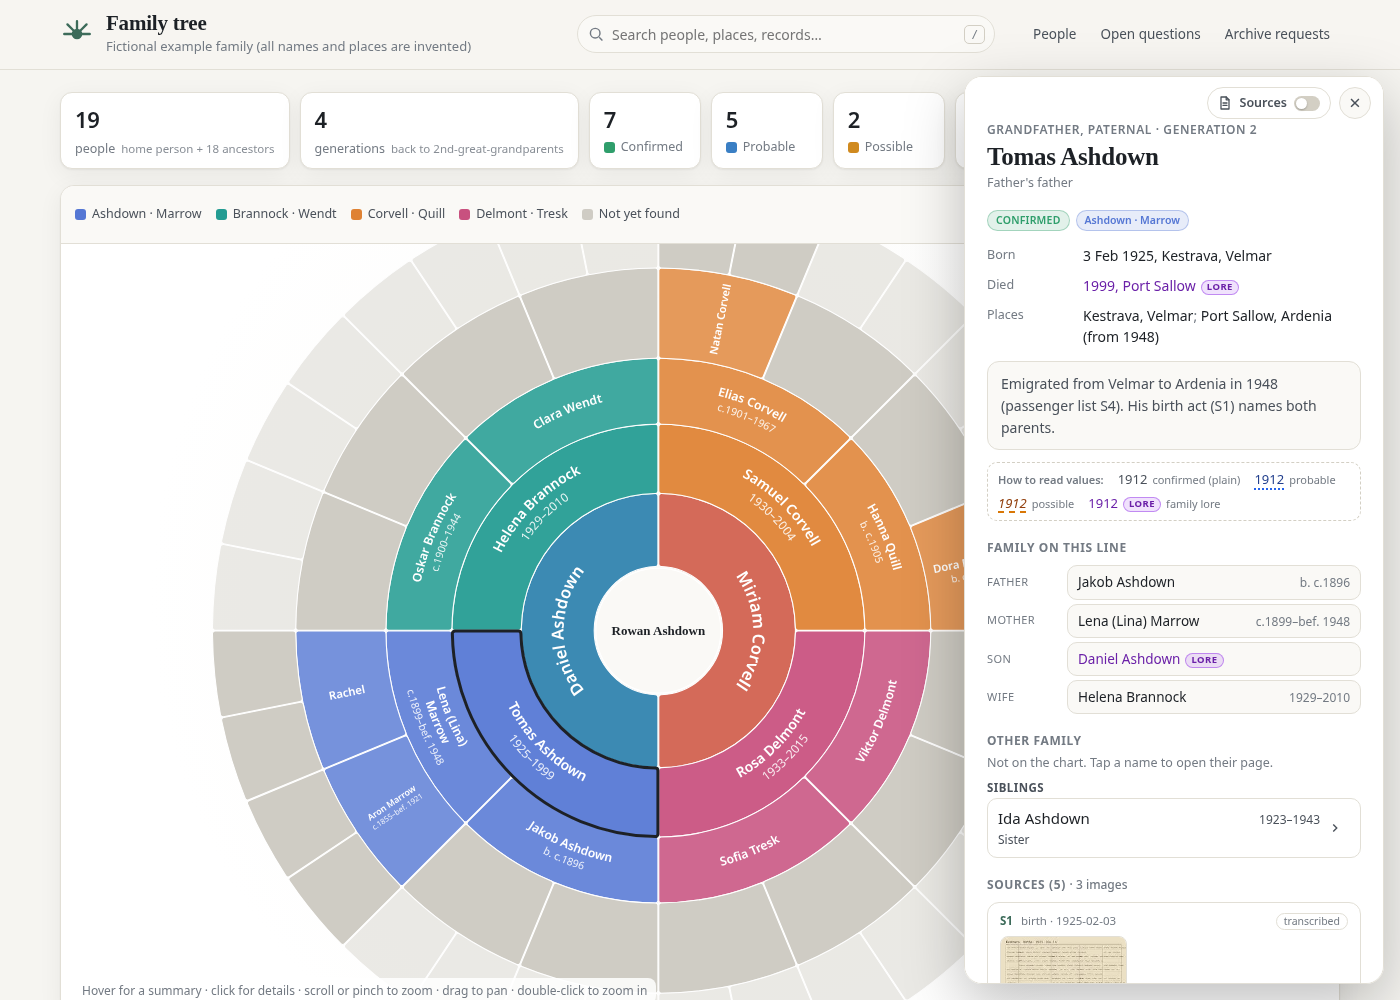
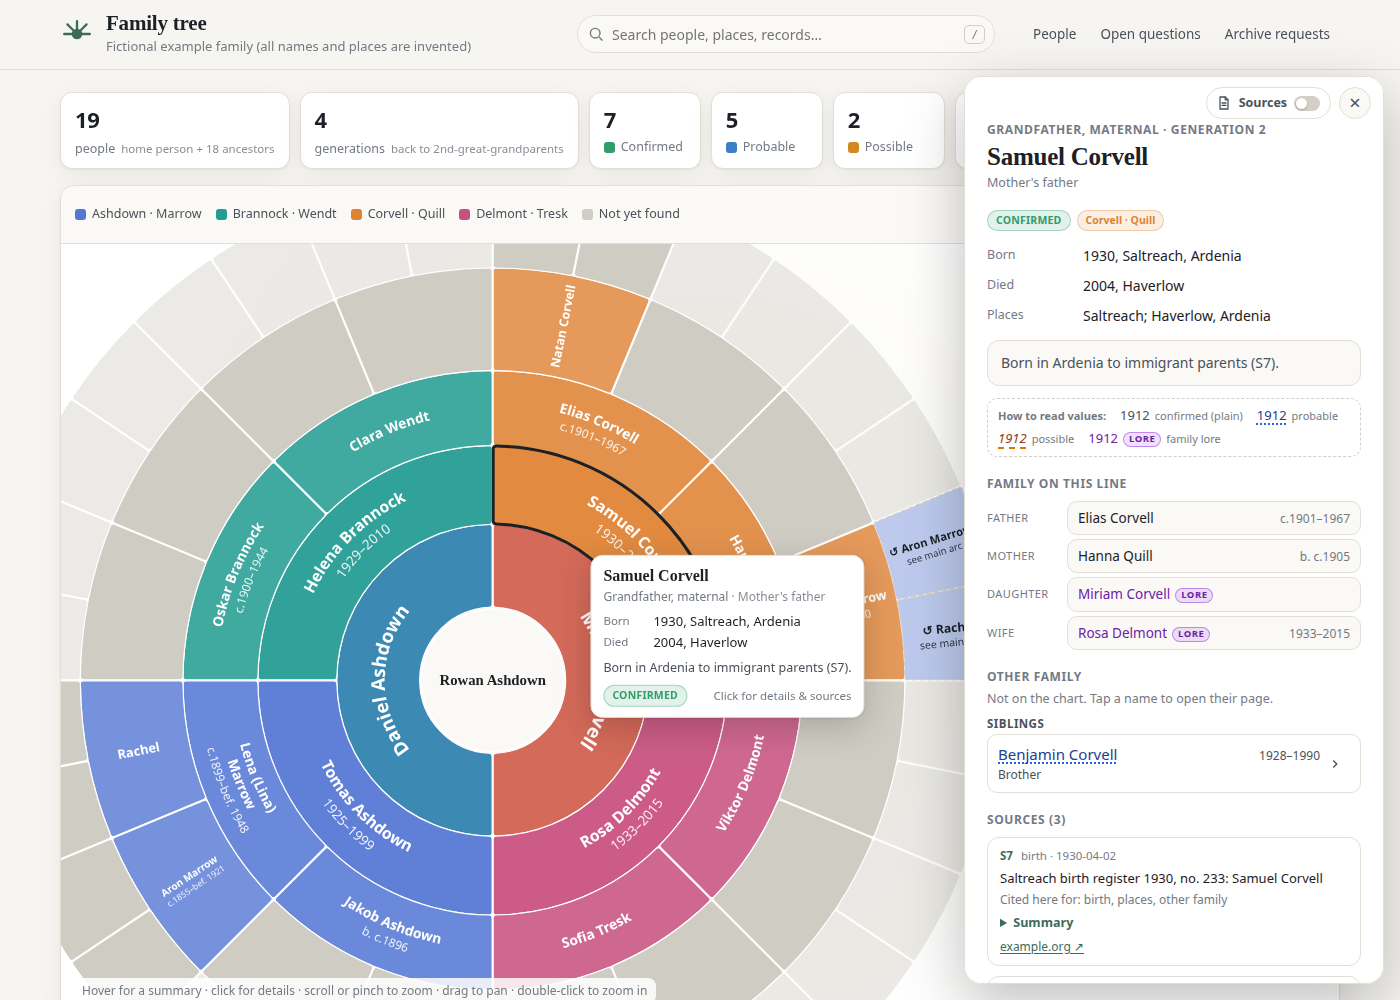
README screenshots and license detection (#3)
* Show the person panel and hover tip together in the README.

The desktop panel shot is the fictional maternal grandfather, with his panel and fan tip open at once. Mobile shots sit under one heading, and the separate tip image is removed.

* Make LICENSE standard MIT so GitHub detects it.

Copyright holder is the GitHub handle meirmsn. Third-party and docs-licence notes move to NOTICE, with the same meaning.

* Add a desktop evidence screenshot and drop the LICENSE holder.

The README desktop section shows the fictional birth record open beside why it matters. LICENSE copyright is exactly "Copyright (c) 2026".

* Drop the extra phone overview and lay screenshots out without tables.

The mobile row keeps the fan chart, person panel, and evidence viewer. HTML images sit side by side so GitHub does not draw table borders.

* Add a little space between the mobile screenshots.

Each phone image is 30% wide, with a few non-breaking spaces between them, still on one centered row.

---------

diff --git a/tools/screenshot_interactive.py b/tools/screenshot_interactive.py
@@ -3,13 +3,16 @@
 
     python3 tools/screenshot_interactive.py build/example-site docs/
     python3 tools/screenshot_interactive.py build/example-site docs/ --tip-only
+    python3 tools/screenshot_interactive.py build/example-site docs/ --evidence-only
 
-Writes screenshot-phone-fan.png, screenshot-phone-panel.png, screenshot-phone-evidence.png and
-screenshot-desktop-tip.png (unless --tip-only, which only rewrites the desktop tip). The visible text
-of each shot is printed so it can be checked for real names. Refuses unless DATA.example is true.
+Writes screenshot-phone-fan.png, screenshot-phone-panel.png, screenshot-phone-evidence.png,
+screenshot-panel.png and screenshot-desktop-evidence.png. --tip-only rewrites only the desktop
+panel shot; --evidence-only rewrites only the desktop record viewer. The visible text of each
+shot is printed so it can be checked for real names. Refuses unless DATA.example is true.
 
-Desktop tip targets an off-centre generation-2 grandparent (prefer maternal, then paternal
-grandfather), hovering toward the bottom-right of that segment — never the centre home person.
+The desktop panel shot opens the person panel and the fan-chart hover tip for the same off-centre
+generation-2 grandparent (prefer maternal, then paternal) — never the centre home person.
+The desktop evidence shot opens a record image with its "Why this record matters" text.
 """
 import functools, http.server, json, os, re, sys, threading
 from playwright.sync_api import sync_playwright
@@ -40,24 +43,145 @@ def _pick_grandpa(page):
     return chosen
 
 
-def _hover_bottom_right(page, seg):
-    """Move the pointer into the lower-right third of the segment's bbox (off-centre)."""
+def _person_from_seg(seg):
+    info = seg.evaluate("""el => {
+        const p = el.__data__ && el.__data__.data && el.__data__.data.person;
+        return p ? {id: p.id, name: p.name} : null;
+    }""")
+    if not info or not info.get("id") or not info.get("name"):
+        raise SystemExit("fan segment has no person id")
+    return info
+
+
+def _open_panel(page, pid, name):
+    page.evaluate("(id) => { location.hash = 'person=' + id; }", pid)
+    page.wait_for_selector("#panel.open", timeout=5000)
+    page.wait_for_function(
+        """(name) => {
+            const n = document.querySelector('#panel-name');
+            return !!(n && n.textContent.trim() === name);
+        }""",
+        arg=name, timeout=5000)
+    # The panel slides in (~280ms) and the chart may pan the arc out from under it (~500ms).
+    page.wait_for_timeout(700)
+
+
+def _pan_chart_left(page):
+    """Drag the fan left so the hover tip can sit on the chart, beside the open panel."""
+    box = page.locator("#fan").bounding_box()
+    if not box:
+        return
+    x = box["x"] + min(140, box["width"] * 0.18)
+    y = box["y"] + box["height"] * 0.55
+    page.mouse.move(x, y)
+    page.mouse.down()
+    page.mouse.move(x - 160, y, steps=10)
+    page.mouse.up()
+    page.wait_for_timeout(400)
+
+
+def _hover_same_person(page, label, name):
+    """Leave the pointer on that person's arc so the tip stays up while the panel is open.
+
+    A click would hide the tip, so this only moves the pointer. The segment's bounding box
+    includes empty corners; try several points and keep the one whose tip overlaps the panel least.
+    """
+    seg = page.locator(f"path.fan-seg[aria-label={json.dumps(label)}]")
+    if seg.count() != 1:
+        raise SystemExit(f"expected one fan segment for {label!r}, found {seg.count()}")
     box = seg.bounding_box()
     if not box or box["width"] < 2 or box["height"] < 2:
         raise SystemExit("grandparent segment has no usable bounding box")
-    x = box["x"] + box["width"] * 0.72
-    y = box["y"] + box["height"] * 0.72
-    page.mouse.move(x, y)
+    best = None
+    for fx, fy in ((0.35, 0.4), (0.42, 0.55), (0.5, 0.35), (0.5, 0.62),
+                   (0.28, 0.5), (0.62, 0.45), (0.72, 0.72), (0.4, 0.72)):
+        x = box["x"] + box["width"] * fx
+        y = box["y"] + box["height"] * fy
+        page.mouse.move(x, y)
+        page.wait_for_timeout(50)
+        hit = page.evaluate(
+            """({x, y, label, name}) => {
+                const el = document.elementFromPoint(x, y);
+                const seg = el && el.closest && el.closest('.fan-seg');
+                const tip = document.querySelector('#tip');
+                const panel = document.querySelector('#panel');
+                const tipName = tip && !tip.hidden && tip.querySelector('.tt-name')
+                    ? tip.querySelector('.tt-name').textContent.trim() : '';
+                let overlap = 1e9;
+                if (tip && !tip.hidden && panel) {
+                    const a = tip.getBoundingClientRect(), b = panel.getBoundingClientRect();
+                    const w = Math.max(0, Math.min(a.right, b.right) - Math.max(a.left, b.left));
+                    const h = Math.max(0, Math.min(a.bottom, b.bottom) - Math.max(a.top, b.top));
+                    overlap = w * h;
+                }
+                return {
+                    onSegment: !!(seg && (seg.getAttribute('aria-label') || '') === label),
+                    tipName, overlap,
+                };
+            }""",
+            {"x": x, "y": y, "label": label, "name": name})
+        if hit.get("onSegment") and hit.get("tipName") == name:
+            cand = (hit["overlap"], x, y)
+            if best is None or cand[0] < best[0]:
+                best = cand
+            if cand[0] <= 0:
+                break
+    if not best:
+        raise SystemExit(f"could not show the hover tip for {name!r} while that person's panel is open")
+    page.mouse.move(best[1], best[2])
+    page.wait_for_timeout(80)
+    print(f"=== hover at ({best[1]:.0f},{best[2]:.0f}) tip overlap {best[0]:.0f}px²")
+
+
+def _shot_panel_with_tip(page, shot):
+    page.goto(page.url.split("#")[0])
+    page.wait_for_selector("path.fan-seg")
+    page.wait_for_timeout(500)
+    seg, label = _pick_grandpa(page)
+    info = _person_from_seg(seg)
+    if not label.startswith(info["name"] + ","):
+        raise SystemExit(f"segment label {label!r} does not match {info['name']!r}")
+    print("=== panel + tip for:", label, info["id"])
+    _open_panel(page, info["id"], info["name"])
+    _pan_chart_left(page)
+    _hover_same_person(page, label, info["name"])
+    page.wait_for_selector("#tip:not([hidden])", timeout=5000)
+    panel = page.locator("#panel-name").inner_text().strip()
+    tip = page.locator("#tip .tt-name").inner_text().strip()
+    if panel != info["name"] or tip != info["name"]:
+        raise SystemExit(f"panel {panel!r} and tip {tip!r} are not both {info['name']!r}")
+    shot(page, "screenshot-panel.png")
+
+
+def _shot_desktop_evidence(page, base, shot):
+    """Record image open beside its 'Why this record matters' text (fictional example only)."""
+    page.goto(base + "#person=p4")
+    page.wait_for_selector("#panel.open .thumb", timeout=8000)
+    page.locator("#panel .thumb").first.click()
+    page.wait_for_selector("#lightbox:not([hidden]) .lb-why", timeout=8000)
+    page.wait_for_function(
+        """() => {
+            const img = document.querySelector('#lightbox .lb-img');
+            const why = document.querySelector('#lightbox .lb-why');
+            const src = (img && (img.currentSrc || img.src)) || '';
+            return !!(img && img.complete && img.naturalWidth > 200 && !src.includes('/t/')
+                      && why && /why this record matters/i.test(why.innerText));
+        }""",
+        timeout=8000)
+    title = page.locator("#lightbox .lb-title").inner_text().strip()
+    why = page.locator("#lightbox .lb-why").inner_text().strip().splitlines()[0:3]
+    print("=== evidence:", title)
+    print("=== why:", " ".join(why))
+    shot(page, "screenshot-desktop-evidence.png")
 
 
 def main():
     argv = sys.argv[1:]
-    tip_only = False
-    if "--tip-only" in argv:
-        tip_only = True
-        argv = [a for a in argv if a != "--tip-only"]
+    tip_only = "--tip-only" in argv
+    evidence_only = "--evidence-only" in argv
+    argv = [a for a in argv if a not in ("--tip-only", "--evidence-only")]
     if len(argv) < 2:
-        raise SystemExit("usage: screenshot_interactive.py SITE_DIR OUT_DIR [--tip-only]")
+        raise SystemExit("usage: screenshot_interactive.py SITE_DIR OUT_DIR [--tip-only|--evidence-only]")
     site, out = os.path.abspath(argv[0]), argv[1]
     data = json.load(open(os.path.join(site, "data", "family.json"), encoding="utf-8"))
     if not data.get("example"):
@@ -74,7 +198,7 @@ def main():
             page.wait_for_timeout(900)
             page.screenshot(path=os.path.join(out, name))
             print("=== wrote", name); print(page.evaluate("document.body.innerText"))
-        if not tip_only:
+        if not tip_only and not evidence_only:
             phone = dict(viewport={"width": 390, "height": 844}, device_scale_factor=2, is_mobile=True, has_touch=True)
             p = b.new_page(**phone); p.goto(base); p.wait_for_selector(".fan-seg"); shot(p, "screenshot-phone-fan.png")
             p.goto(base + "#person=p4"); p.wait_for_timeout(1200)
@@ -85,15 +209,15 @@ def main():
             w = p.locator("#lightbox .lb-why").first
             if w.count(): w.scroll_into_view_if_needed()
             shot(p, "screenshot-phone-evidence.png")
-        d = b.new_page(viewport={"width": 1400, "height": 1000}); d.goto(base); d.wait_for_selector(".fan-seg")
-        d.wait_for_timeout(500)
-        seg, label = _pick_grandpa(d)
-        print("=== hovering tip on:", label)
-        _hover_bottom_right(d, seg)
-        d.wait_for_selector("#tip:not([hidden])", timeout=5000)
-        tip_text = d.locator("#tip").inner_text()
-        print("=== tip text:\n", tip_text)
-        shot(d, "screenshot-desktop-tip.png")
+        d = b.new_page(viewport={"width": 1400, "height": 1000})
+        d.goto(base)
+        if evidence_only:
+            _shot_desktop_evidence(d, base, shot)
+        elif tip_only:
+            _shot_panel_with_tip(d, shot)
+        else:
+            _shot_panel_with_tip(d, shot)
+            _shot_desktop_evidence(d, base, shot)
         b.close()
     srv.shutdown()
 

diff --git a/tools/screenshot.py b/tools/screenshot.py
@@ -3,8 +3,10 @@
 
     python3 tools/screenshot.py SITE_DIR OUT_DIR [--require-example]
 
-OUT_DIR is a FOLDER: three files are written into it (screenshot-desktop.png, screenshot-phone.png,
-screenshot-panel.png). Example: python3 tools/screenshot.py build/example-site docs/ --require-example
+OUT_DIR is a FOLDER: screenshot-desktop.png is written into it. The narrow-screen shots
+(fan, person panel, record viewer) and the desktop panel and evidence shots are written by
+screenshot_interactive.py. Example:
+python3 tools/screenshot.py build/example-site docs/ --require-example
 
 The server is started in-process on a port chosen by the OS (never a fixed port: another agent may
 already be serving a different, private site on 8000/8765). Before shooting, it fetches
@@ -24,8 +26,7 @@ import sys
 import threading
 import urllib.request
 
-SHOTS = [("screenshot-desktop.png", "1400,1000", ""), ("screenshot-phone.png", "390,844", ""),
-         ("screenshot-panel.png", "1400,1000", "#person=p4")]
+SHOTS = [("screenshot-desktop.png", "1400,1000", "")]
 
 
 def chrome():

diff --git a/tools/tests/test_tools.py b/tools/tests/test_tools.py
@@ -509,7 +509,7 @@ class PrivacyLayers(unittest.TestCase):
     def test_quarantine_shapes(self):
         q = self.pg.quarantine_category
         for ok in ("site/example/people_spec.py", "site/site.config.json", "templates/records/INDEX.md",
-                   "site/example/data/records/a/x.jpg", "docs/screenshot-phone.png", "site/web/favicon.svg",
+                   "site/example/data/records/a/x.jpg", "docs/screenshot-phone-fan.png", "site/web/favicon.svg",
                    "tools/privacy_grep.py", "README.md"):
             self.assertIsNone(q(ok), ok)
         for bad in ("genealogy-trees/t/people.md", "x/.work/private-words.txt", "private-words.txt",

diff --git a/README.md b/README.md
@@ -9,18 +9,15 @@ relatives and archive requests), the **agent instructions**, empty **templates**
 files, small **tools**, and the **site generator**. It contains **no personal data**: every name,
 place and record in this repository belongs to an invented example family.
 
-![Fan chart of the fictional example family](docs/screenshot-desktop.png)
+![Fan chart](docs/screenshot-desktop.png)
 
-| Person panel (fictional example) | Phone layout |
-|---|---|
-| ![Person panel](docs/screenshot-panel.png) | ![Phone](docs/screenshot-phone.png) |
+<p align="center"><img src="docs/screenshot-panel.png" width="49%" alt="Person panel and hover tip for the same person"> <img src="docs/screenshot-desktop-evidence.png" width="49%" alt="Record open, with why it matters"></p>
 
-| Phone: fan chart | Phone: person panel | Phone: record + why it matters | Desktop: hover tip |
-|---|---|---|---|
-| ![Phone fan](docs/screenshot-phone-fan.png) | ![Phone panel](docs/screenshot-phone-panel.png) | ![Phone evidence](docs/screenshot-phone-evidence.png) | ![Desktop tip](docs/screenshot-desktop-tip.png) |
+### Mobile
 
-*All screenshots show the fictional example in `site/example/` ("Velmar", "Ardenia" and every
-person in it are invented; the record images are generated placeholders).*
+<p align="center"><img src="docs/screenshot-phone-fan.png" width="30%" alt="Fan chart">&nbsp;&nbsp;&nbsp;<img src="docs/screenshot-phone-panel.png" width="30%" alt="Person panel">&nbsp;&nbsp;&nbsp;<img src="docs/screenshot-phone-evidence.png" width="30%" alt="Record and why it matters"></p>
+
+*All names, places and records in these screenshots are invented.*
 
 ## Install the private site as an app (PWA)
 The generated site ships a web app manifest, service worker and fan-chart home-screen icons.
@@ -59,7 +56,7 @@ store, cron, numbered question, report file).
 cd site && npm install && cd ..
 python3 site/build.py                     # builds the fictional example into build/example-site/
 python3 tools/screenshot.py build/example-site docs --require-example   # optional
-python3 tools/screenshot_interactive.py build/example-site docs [--tip-only]   # optional; needs `pip install playwright` + Chrome
+python3 tools/screenshot_interactive.py build/example-site docs [--tip-only|--evidence-only]   # optional; panel + hover tip, desktop evidence (mobile shots unless a flag); needs `pip install playwright` + Chrome
 python3 -m unittest discover -s site/tests
 python3 -m unittest discover -s tools/tests
 ```
@@ -124,3 +121,4 @@ The data structure, person panel and record lightbox were designed for this kit;
 ## Licence
 MIT for the code and docs (see [LICENSE](LICENSE)). Vendored libraries keep their own licences:
 D3 (ISC) and Fuse.js (Apache-2.0), copied into each build's `vendor/LICENSES.txt`.
+Third-party notes, and the still-open choice for the docs, are in [NOTICE](NOTICE).

diff --git a/tools/README.md b/tools/README.md
@@ -18,8 +18,8 @@ Python 3 standard library, plus Pillow where noted.
 | `polite_query.py URL | jri GUB SURNAME` | index queries with per-host pauses, cache, decoy check (`--verify`), bot-wall stop |
 | `access_check.py URL… | --config CFG` | Cloudflare Access 302 check (for the daily routine) |
 | `privacy_grep.py REPO [--words FILE] [--project PROJECT] [--history] [--install-hook] [--public-ci]` | per-project word list (`PROJECT/.work/private-words.txt`, or `$GENEALOGY_PRIVATE_WORDS` pointing outside the kit) + secret patterns + path quarantine; whole-word plus simple suffixes (-s/-es/'s/-er/-ers; list other name variants explicitly), min 5 letters; **fails** if the list is missing or empty of usable words, or tracked inside the scanned repo. `--install-hook` writes local **pre-commit and pre-push** hooks. `--public-ci`: name-blind mode for public CI (no word list; secrets + forbidden path shapes + non-example images; generic output only) — see SECURITY.md §5.1 |
-| `screenshot.py SITE_DIR OUT_DIR --require-example` (Chrome) | screenshots of the fictional example on a random free port |
-| `screenshot_interactive.py SITE OUT [--tip-only]` (Playwright + Chrome) | interactive shots of the fictional example only (phone fan/panel/evidence + desktop hover tip on a generation-2 grandfather); refuses unless `DATA.example` |
+| `screenshot.py SITE_DIR OUT_DIR --require-example` (Chrome) | desktop fan chart of the fictional example, on a random free port |
+| `screenshot_interactive.py SITE OUT [--tip-only|--evidence-only]` (Playwright + Chrome) | fictional example only: narrow-screen fan, panel and record shots; `screenshot-panel.png` (panel and hover tip for the same generation-2 grandfather); `screenshot-desktop-evidence.png` (record image with why it matters). `--tip-only` / `--evidence-only` rewrite just that desktop shot. Refuses unless `DATA.example` |
 | `gklib.py` | shared parsers (front matter, sources.md, people.md links with the reset fix), project boundaries (never descend into a nested project), `Unused:` lines, transcription placeholders, archive unit ids |
 
 Projects: a folder with `.genealogy-project` (written by new_project.py), or with both `people.md` and
